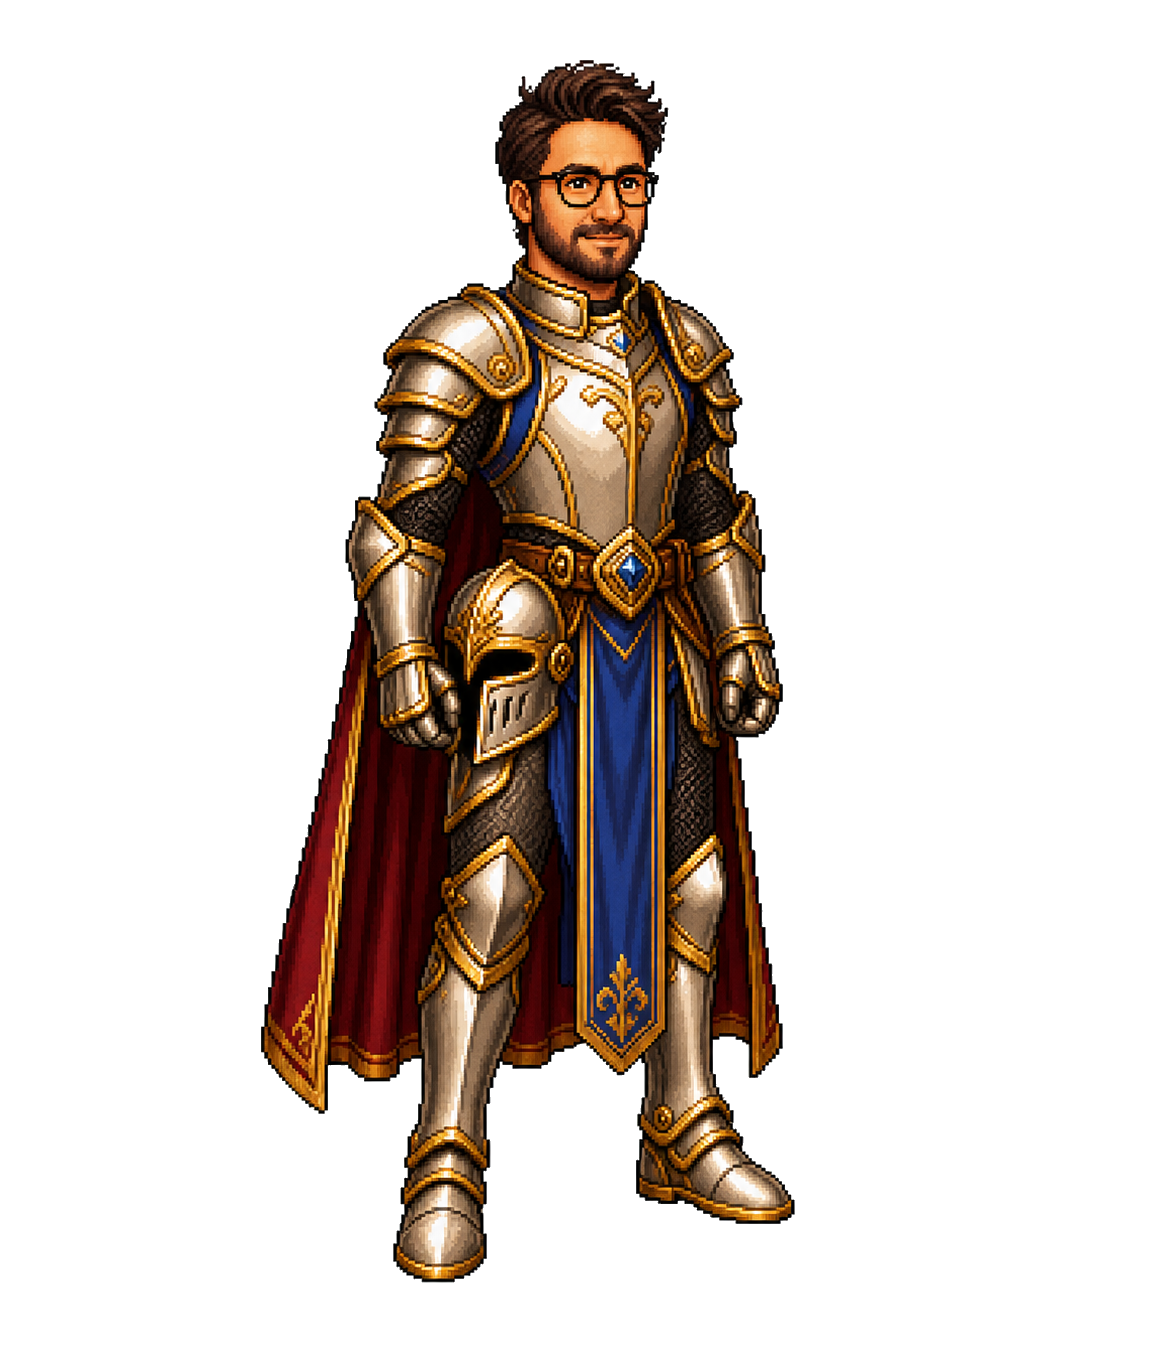
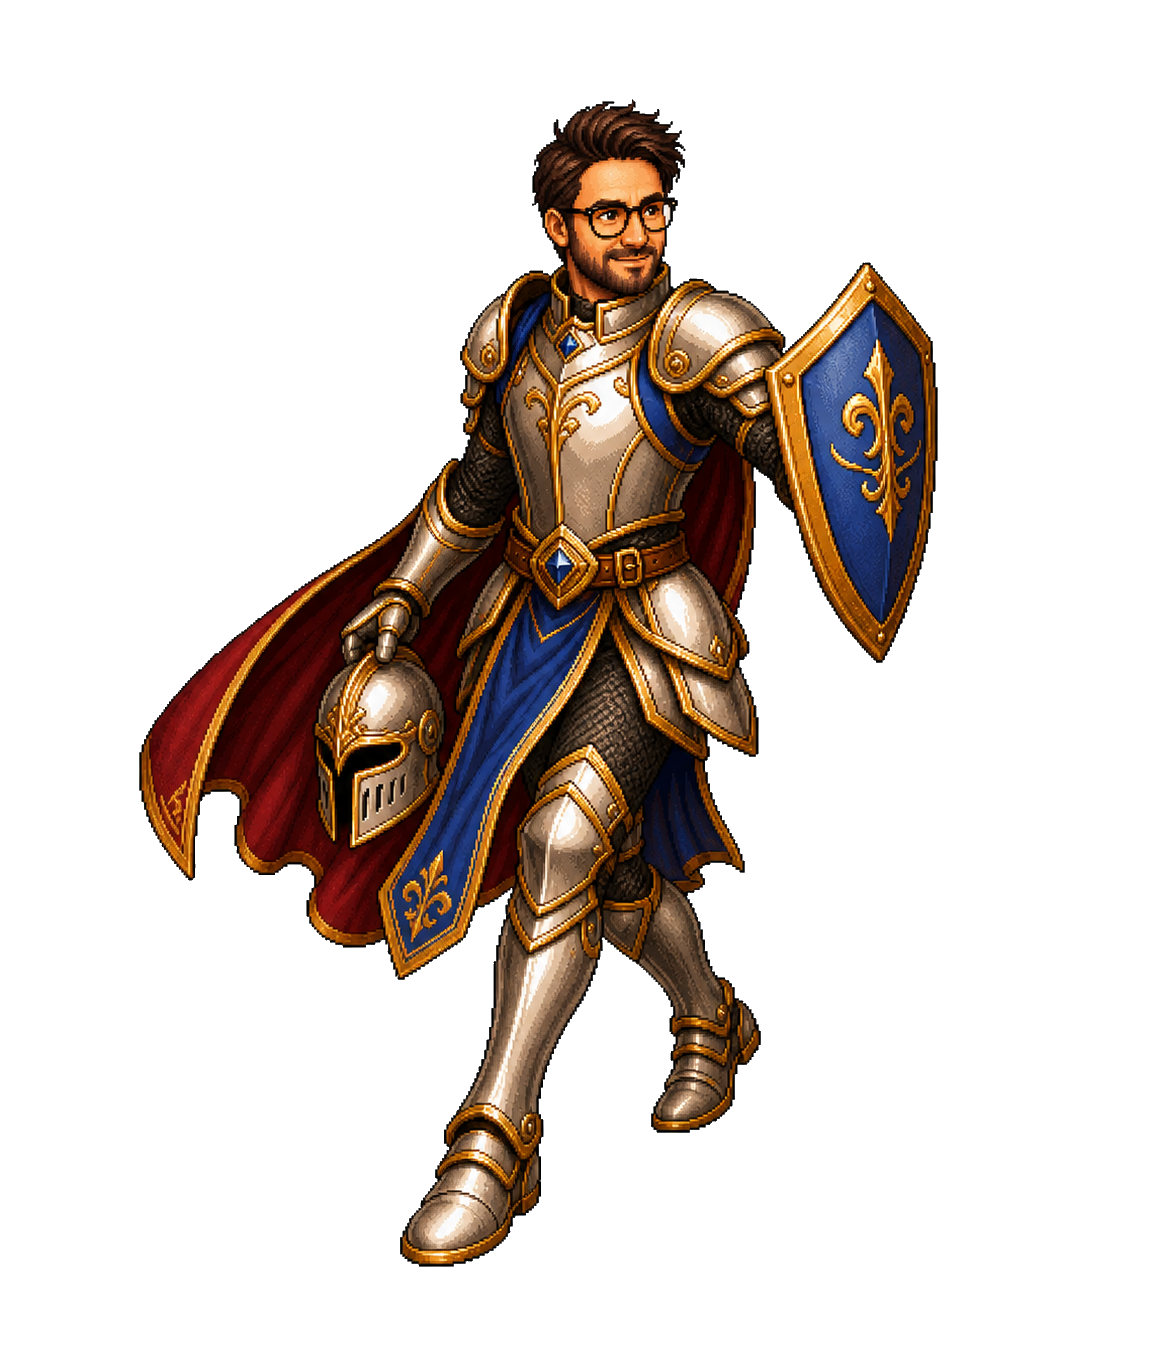
Donne une pose plus aventureuse à Youri

Changed region(s): [[0.1218, 0.0307, 0.8225, 0.9518]]

diff --git a/game.js b/game.js
@@ -4,7 +4,7 @@ const icons={
   green:`<svg class="med-icon" viewBox="0 0 48 48" aria-label="Bistouri"><path d="M7 41l3 2 19-21-3-4z"/><path d="M26 18L39 2v5c-1 6-5 12-10 15z" fill="white"/><path d="M10 39l17-19"/></svg>`,
   blue:`<svg class="med-icon" viewBox="0 0 48 48" aria-label="Seringue"><path d="M14 29l15-15 7 7-15 15z"/><path d="M33 18L44 7M10 25l5 5M20 35l5 5M17 33L9 41M5 37l8 8"/><path d="M19 29l4 4M22 26l4 4M25 23l4 4"/></svg>`
 };
-const CHARACTERS=[['Pascal','pascal-pirate.png'],['Mathieu','mathieu-luchador.png'],['Pierre','pierre-halloween.png'],['Adela','adela-egyptienne.png'],['JB','jb-cosmonaute.png?v=20260819-2'],['Romain','romain-poulet.png'],['Natacha','natacha-princesse.png'],['Fanny','fanny-exploratrice.png'],['Félix','felix-cyborg.png'],['Youri','youri-paladin.png'],['Quentin','quentin-dictateur.png'],['Nicolas','nicolas-vigilante.png'],['Yannick','yannick-cardinal.png'],['Cecilia','cecilia-infirmiere.png'],['Thibault','thibault-aventurier.png'],['Polo','polo-dandy.png'],['Édouard','edouard-aviateur.png'],['Justin','justin-judoka.png'],['Charlotte','charlotte-cavaliere.png'],["Catoire d’Arabie",'catoire-arabie.png'],['Rémy','remy-shaolin.png'],['Olivier','olivier-policier.png?v=20260819-2'],['Raphaël','raphael-scaphandrier.png?v=20260819-2'],['Éric','eric-druide.png'],['Cyril','cyril-alchimiste.png'],['Rémi','remi-berserker.png'],['Thomas','thomas-capitaine-sous-marin.png'],['Benjamin','benjamin-sherif.png'],['Edwin','edwin-zadiste.png'],['Alexandre','alexandre-hercule-satan.png'],['Erwan','erwan-bucheron.png']];
+const CHARACTERS=[['Pascal','pascal-pirate.png'],['Mathieu','mathieu-luchador.png'],['Pierre','pierre-halloween.png'],['Adela','adela-egyptienne.png'],['JB','jb-cosmonaute.png?v=20260819-2'],['Romain','romain-poulet.png'],['Natacha','natacha-princesse.png'],['Fanny','fanny-exploratrice.png'],['Félix','felix-cyborg.png'],['Youri','youri-paladin.png?v=20260819-2'],['Quentin','quentin-dictateur.png'],['Nicolas','nicolas-vigilante.png'],['Yannick','yannick-cardinal.png'],['Cecilia','cecilia-infirmiere.png'],['Thibault','thibault-aventurier.png'],['Polo','polo-dandy.png'],['Édouard','edouard-aviateur.png'],['Justin','justin-judoka.png'],['Charlotte','charlotte-cavaliere.png'],["Catoire d’Arabie",'catoire-arabie.png'],['Rémy','remy-shaolin.png'],['Olivier','olivier-policier.png?v=20260819-2'],['Raphaël','raphael-scaphandrier.png?v=20260819-2'],['Éric','eric-druide.png'],['Cyril','cyril-alchimiste.png'],['Rémi','remi-berserker.png'],['Thomas','thomas-capitaine-sous-marin.png'],['Benjamin','benjamin-sherif.png'],['Edwin','edwin-zadiste.png'],['Alexandre','alexandre-hercule-satan.png'],['Erwan','erwan-bucheron.png']];
 const $=id=>document.getElementById(id);let socket,state,session=JSON.parse(localStorage.getItem('duel-session')||'null'),lastChatCount=0,reconnectTimer=null,connectionNumber=0;
 const invitedCode=new URLSearchParams(location.search).get('join')?.trim().toUpperCase().replace(/[^A-Z2-9]/g,'').slice(0,5)||'';
 // Un joueur qui actualise son lien d'invitation doit conserver son identité.

diff --git a/index.html b/index.html
@@ -149,6 +149,6 @@
     <p class="gallery-intro">Découvrez tous les personnages disponibles avant de choisir votre champion.</p>
     <div id="galleryGrid" class="gallery-grid"></div>
   </dialog>
-  <script src="game.js?v=10"></script>
+  <script src="game.js?v=12"></script>
 </body>
 </html>
